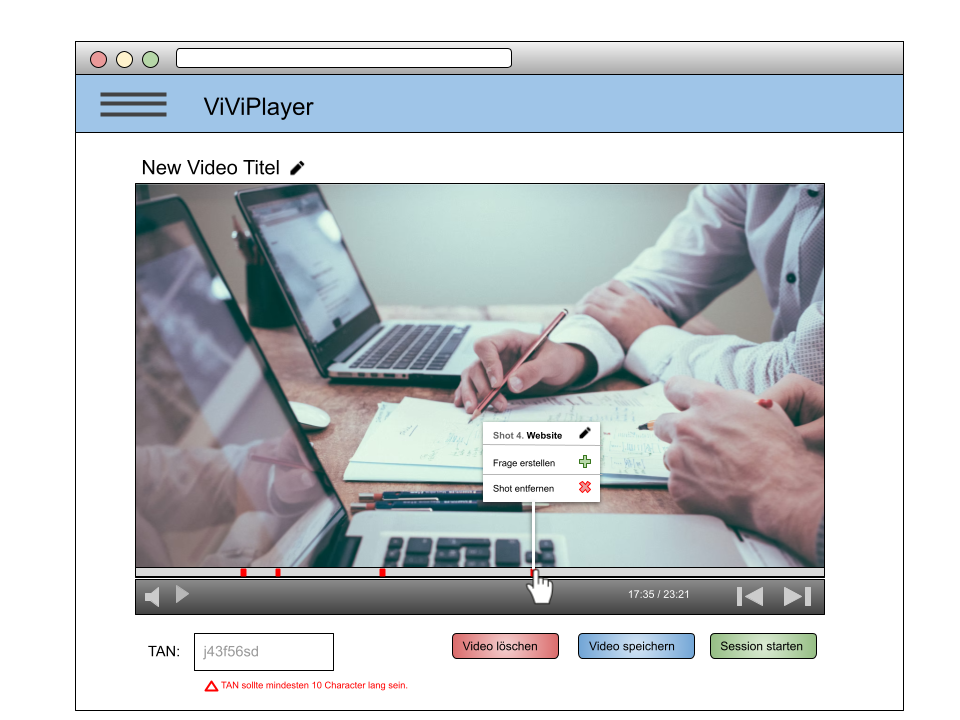
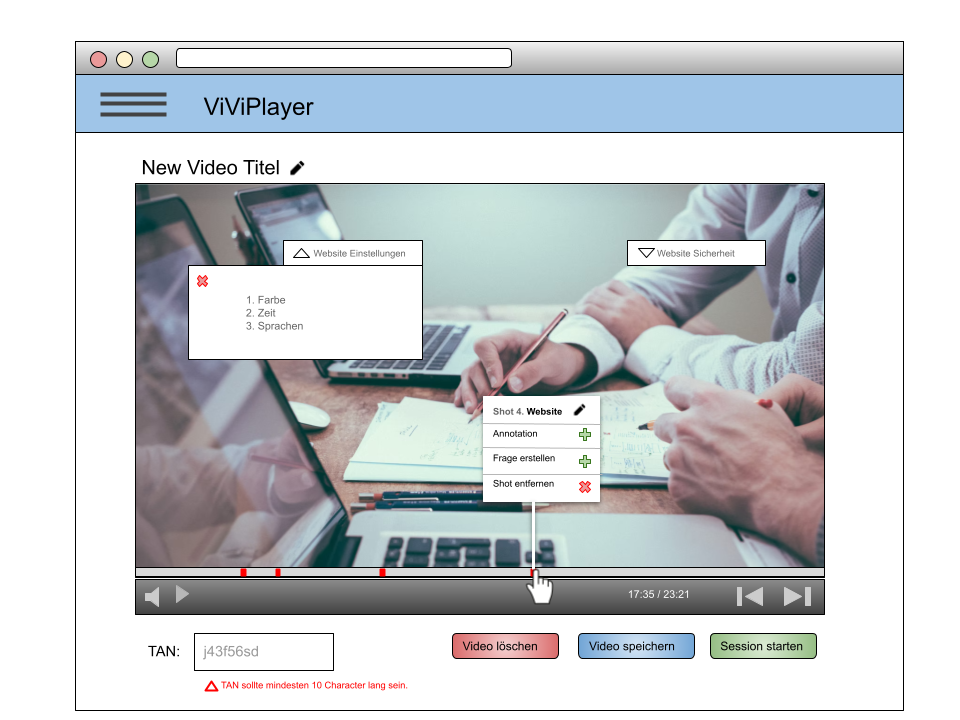
Chapter 4 and mockups

Changed region(s): [[0.1875, 0.3361, 0.4375, 0.5194], [0.5, 0.55, 0.625, 0.7028], [0.6562, 0.3361, 0.8125, 0.3667]]

diff --git a/specification/sections/kapitel4.tex b/specification/sections/kapitel4.tex
@@ -2,16 +2,19 @@
 
 	\subsection{Qualitätsziele des Projekts}
 	
-	Bei diesem Projekt wird ein großer Fokus auf die Aufrechterhaltung der Softwarequalität in Bezug auf die ISO / IEC 25010-Normen gelegt. Dazu gehören Funktionalität, Effizienz, Kompatibilität, Benutzerfreundlichkeit, Zuverlässigkeit, Sicherheit, Wartbarkeit und Portabilität.
+	Bei diesem Projekt wird ein großer Fokus auf die Aufrechterhaltung der Softwarequalität in Bezug auf die ISO / IEC 25010-Normen gelegt. 
     \linebreak
-    Sicherheit und Effizienz sind zwei der wichtigsten Qualitätsziele in diesem Projekt. Da die Software private Daten von Dritten, wie beispielsweise Kunden anderer Unternehmen, verarbeiten wird, wird ein großer Fokus auf die Wahrung der Vertraulichkeit, Integrität und Authentifizierung bei allen Benutzer- und Moderatorinteraktionen gelegt. Aus diesen Gründen ist der Zutritt nur bestimmten Personen gestattet. Allen anderen wird der Zugriff verweigert.
+    Sicherheit und Effizienz sind zwei der wichtigsten Qualitätsziele in diesem Projekt. Da die Software private Daten von Dritten, wie beispielsweise Kunden anderer Unternehmen, verarbeiten wird, wird ein großer Fokus auf die Wahrung der Vertraulichkeit, Integrität und Authentifizierung bei allen Benutzer- und Moderatorinteraktionen gelegt. ViViPlayer-Sitzungen sollten nur autorisierten Personen angezeigt werden und alle Sitzungsinformationen, einschließlich User Stories und Umfrageergebnisse, sollten nur dem autorisierten Moderator zugänglich sein. 
     \linebreak
-    Da ViViPlayer einen Schwerpunkt auf die Live-Interaktion zwischen mehreren Benutzern legt, ist es wichtig, dass auch auf Effizienz, einschließlich Zeitverhalten, Ressourcenauslastung und Kapazität, großer Wert gelegt wird. 
+    Da ViViPlayer auf die Live-Interaktion zwischen mehreren Benutzern fokussiert, ist es wichtig, dass auch auf Effizienz großen Wert gelegt wird, damit die Benutzer ein flüssiges Wiedergabeerlebnis (kein Ruckeln) sowie minimale Verzögerungen bei der Synchronisation haben.
     \linebreak
-    Um die Portabilität, Kompatibilität und die Zuverlässigkeit sicherzustellen ist diese Anwendung als Web-App konzipiert um möglichst viele Geräte zu erreichen.
-    Im Hinblick auf die Benutzerfreundlichkeit ist es wichtig, dass die Software nicht nur für Moderatoren, sondern auch für Benutzer eine angemessene Benutzererfahrung bietet. Dies wird durch eine leicht zu erlernende und effiziente Benutzeroberfläche erreicht. Es ist wichtig, dass Moderatoren die Option für Verknüpfungen und erweiterte Funktionen haben, damit sie die Software im Laufe der Zeit effizienter nutzen können. Da die Benutzer verschiedene technische Hintergründe haben, wird ein Fokus auf die Erlernbarkeit durch ein intuitives Design und hilfreiche Dialoge gelegt.
+    Im Hinblick auf die Benutzerfreundlichkeit ist es wichtig, dass die Software nicht nur für Moderatoren, sondern auch für Benutzer eine intuitive Benutzererfahrung bietet.  Durch guter Erlernbarkeit und eine intuitive Benutzeroberfläche, sollte ein Benutzer in der Lage sein, auf einen ViViPlayer zuzugreifen und eine Sitzung anzusehen, ohne dass Hilfe vom Moderator erforderlich sind.  Der Moderator sollte in der Lage sein, ein Video hochzuladen und zu segmentieren, ohne nach möglichen Segmenten zu suchen und bestimmte Zeitstempel eingeben zu müssen. Eine intelligent gestaltete Oberfläche sollte es dem Moderator ermöglichen, eine Live-Sitzung einfach durchzuführen,  Fragen zu stellen und Benutzer-Feedback zu erhalten, ohne Fehler zu machen.
     \linebreak
-    Auch die Wartbarkeit ist für den Kunden sehr wichtig. Da die Software in Kooperation mit der Leibniz Universität Hannover entwickelt wird, ist es wichtig, dass die Software von Studierenden und Lehrenden für zukünftige Lehrveranstaltungen weiterentwickelt werden kann. Sichergestellt wird dieses durch die Verwendung von Design Patterns und Refactoring.
+    Auch die Wartbarkeit ist für den Kunden sehr wichtig. Da die Software in Kooperation mit der Leibniz Universität Hannover entwickelt wird, ist es wichtig, dass die Software von Studierenden und Lehrenden für zukünftige Lehrveranstaltungen weiterentwickelt werden kann. 
+    \linebreak
+    Im Hinblick auf die Zuverlässigkeit, da die Software im Live-Umfeld eingesetzt wird, ist es sehr wichtig, dass die Software möglichst fehlerfrei ist und im Fehlerfall nicht zu Problemen bei anderen Benutzern führt.
+    \linebreak
+
 	
 	\subsection{Qualitäts-Prioritäten des Kunden}
 		
@@ -23,23 +26,22 @@
            	\item Benutzbarkeit
             \item Wartbarkeit
             \item Effizienz
+            \item Zuverlässigkeit
 
 		\end{itemize}
 
 	\subsection{Wie Qualitätsziele erreicht werden sollen}
 	
-	Die Qualität wird während der Entwicklungsphase durch wöchentliche Walkthroughs mit dem Kunden aufrechterhalten. Quality Gates werden auch verwendet, um sicherzustellen, dass alle wesentlichen funktionalen Anforderungen erfüllt sind, bevor nicht wesentliche Anforderungen bearbeitet werden.
+	Die Qualität wird während der Entwicklungsphase durch wöchentliche Walkthroughs mit dem Kunden aufrechterhalten. Quality Gates werden auch verwendet, um sicherzustellen, dass die funktionalen Anforderungen mit den höchsten Prioritäten erfüllt sind, bevor man weiter mit neuen Anforderungen anfängt.
 	\linebreak
-	Durch die Durchführung von Loadtests wird die Effizienz aufrechterhalten. Das Ziel besteht darin, auch bei einer geringeren als erwarteten Kapazität oder einer höheren als erwarteten Ressourcenauslastung eine angemessene Benutzererfahrung zu bieten.
+    Durch die Durchführung von Loadtests wird die Effizienz aufrechterhalten. Das Ziel besteht darin, auch bei einer geringeren als erwarteten Kapazität oder einer höheren als erwarteten Ressourcenauslastung eine angemessene Benutzererfahrung zu bieten. 
 	\linebreak
-	Die Kompatibilität wird durch ständige Tests nicht nur auf Entwicklungsservern, sondern auch auf dem vom Kunden bereitgestellten Server aufrechterhalten.
+	Die Benutzerfreundlichkeit wird durch Walkthroughs mit Standard-Checklisten sowie exemplarische Vorgehensweisen mit Testbenutzern gewährleistet.
 	\linebreak
-	Die Benutzerfreundlichkeit wird durch eine intuitive Benutzeroberfläche, Walkthroughs mit Standard-Checklisten sowie exemplarische Vorgehensweisen mit Testbenutzern gewährleistet.
-	\linebreak
-	Die Zuverlässigkeit wird durch Black-Box-Tests aufrechterhalten, die durch die Anwendungsfälle in Kapital 3 bestimmt werden. Außerdem werden White-Box-Tests basierend auf dem Quellcode durchgeführt. Der Test wird durch den gesamten Entwicklungsprozess durch den Einsatz von Komponententests, Integrationstests und Systemtests durchgeführt.
+	Die Zuverlässigkeit wird durch Black-Box-Tests aufrechterhalten, die durch die Anwendungsfälle in Abschnitt X bestimmt werden. Außerdem werden White-Box-Tests basierend auf dem Quellcode durchgeführt. Der Test wird durch den gesamten Entwicklungsprozess durch den Einsatz von Komponententests, Integrationstests und Systemtests durchgeführt.
 	\linebreak
 	Die Sicherheit wird durch die Verwendung von SSL, sicheren Passwörtern/TANs, und Passwort-Hashing gewährleistet. Während der Entwicklung werden auch Penetrationstests durchgeführt.
 	\linebreak
-	Die Wartbarkeit wird durch die Codierungskonventionen gewährleistet, z. B. durch entsprechend kommentierten Code.
+	Die Wartbarkeit der Software wird durch die Verwendung einer einheitlichen Code Konvention sowie durc gut kommentierten Code und die Reduzierung der Codekomplexität gewährleistet.
 	\linebreak
-	Wenn möglich, werden gängige Software- und Hardwarekombinationen verwendet, um die Portabilität aufrechtzuerhalten.
+	Wenn möglich, werden nur gängige Software- und Hardwarekombinationen verwendet, um die Portabilität aufrechtzuerhalten.

diff --git a/specification/sections/kapitel5.tex b/specification/sections/kapitel5.tex
@@ -5,13 +5,13 @@ Die folgenden Mockups dienen der visuellen Vorstellung einiger der wichtigsten M
 
 \begin{figure}[h]
   \includegraphics[width=\linewidth]{5dot1.png}
-  \caption{Hier sieht man den ViViPlayer aus der Perspektive des Benutzers. Der Nutzer hat die Möglichkeit, strukturierte User-Stories oder Freitextsätze zu senden. Vom Moderator gestellte Fragen können direkt beantwortet werden. Der Videoplayer ermöglicht es dem Benutzer, das Video anzusehen, ohne die Wiedergabe für andere Teilnehmer zu stören.}
+  \caption{Hier sieht man den ViViPlayer aus der Perspektive des Benutzers. Der Nutzer hat die Möglichkeit, strukturierte User-Stories oder Freitextsätze zu senden. Vom Moderator gestellte Fragen können direkt beantwortet werden. Der Videoplayer ermöglicht es dem Benutzer, das Video anzusehen, ohne die Wiedergabe für andere Teilnehmer zu stören. Vom Moderator bereitgestellte Annonatation können geöffnet und geschlossen werden.}
   \label{fig:5dot1}
 \end{figure}
 
 \begin{figure}
   \includegraphics[width=\linewidth]{5dot2.png}
-  \caption{Abbildung 2. Hier kann man sehen, wie ein neues Video für eine neue Sitzung von einem Moderator bearbeitet wird. Das Video wurde bereits automatisch in Kapitel unterteilt. Der Titel des Videos kann direkt geändert werden. Der Moderator hat die Möglichkeit, Kapitel hinzuzufügen und zu entfernen sowie jedem Kapitel Titel zuzuordnen und Fragen vorzuformulieren, indem er einfach auf die Segmente auf dem Video-Slider klickt. Wenn der Moderator mit dem Video zufrieden ist, kann er eine TAN vergeben und das Video entweder speichern oder direkt eine Live-Session starten.}
+  \caption{Abbildung 2. Hier kann man sehen, wie ein neues Video für eine neue Sitzung von einem Moderator bearbeitet wird. Das Video wurde bereits automatisch in Kapitel unterteilt. Der Titel des Videos kann direkt geändert werden. Der Moderator hat die Möglichkeit, Kapitel und Annonatation hinzuzufügen und zu entfernen sowie jedem Kapitel Titel zuzuordnen und Fragen vorzuformulieren, indem er einfach auf die Segmente auf dem Video-Slider klickt. Wenn der Moderator mit dem Video zufrieden ist, kann er eine TAN vergeben und das Video entweder speichern oder direkt eine Live-Session starten.}
   \label{fig:5dot2}
 \end{figure}
 
